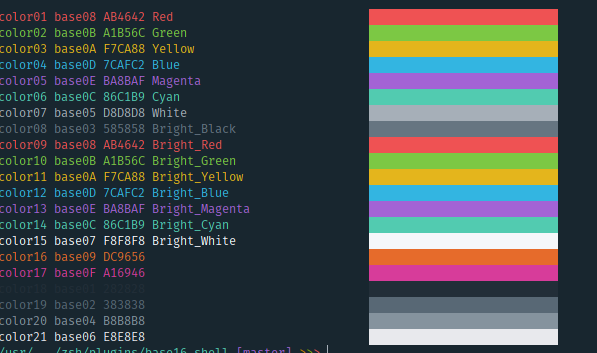
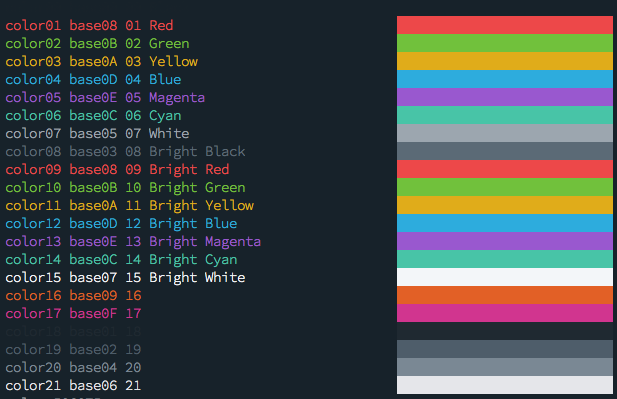
Adds solarflare-light

diff --git a/README.md b/README.md
@@ -5,7 +5,14 @@ This re-hosting is necessary to work with the Base16 v0.9.0 repository scheme.
 
 ## Example
 
+Solarflare
+
 ![solarflare example](example.png "Example colors for Solarflare")
+
+Solarflare Light 
+
+![solarflare light example](example-solarflare-light.png "Example colors for Solarflare Light")
+
 
 ## License
 [MIT License](./LICENSE)
